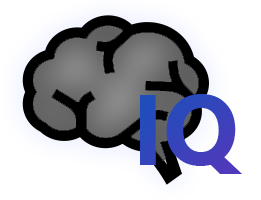
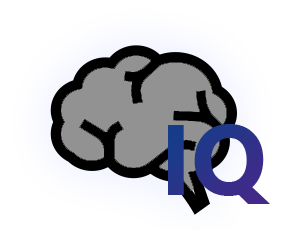
678

diff --git a/css/sim-style.css b/css/sim-style.css
@@ -496,9 +496,9 @@ output {
     background-image: url("../img/iq_g.png");
     background-repeat: no-repeat;
     display: block;
-    width: 104px;
-    height: 104px;
-    top: 593px;
+    width: 110px;
+    height: 110px;
+    top: 587px;
     left: 155px;
     background-size: contain;
     outline: none;
